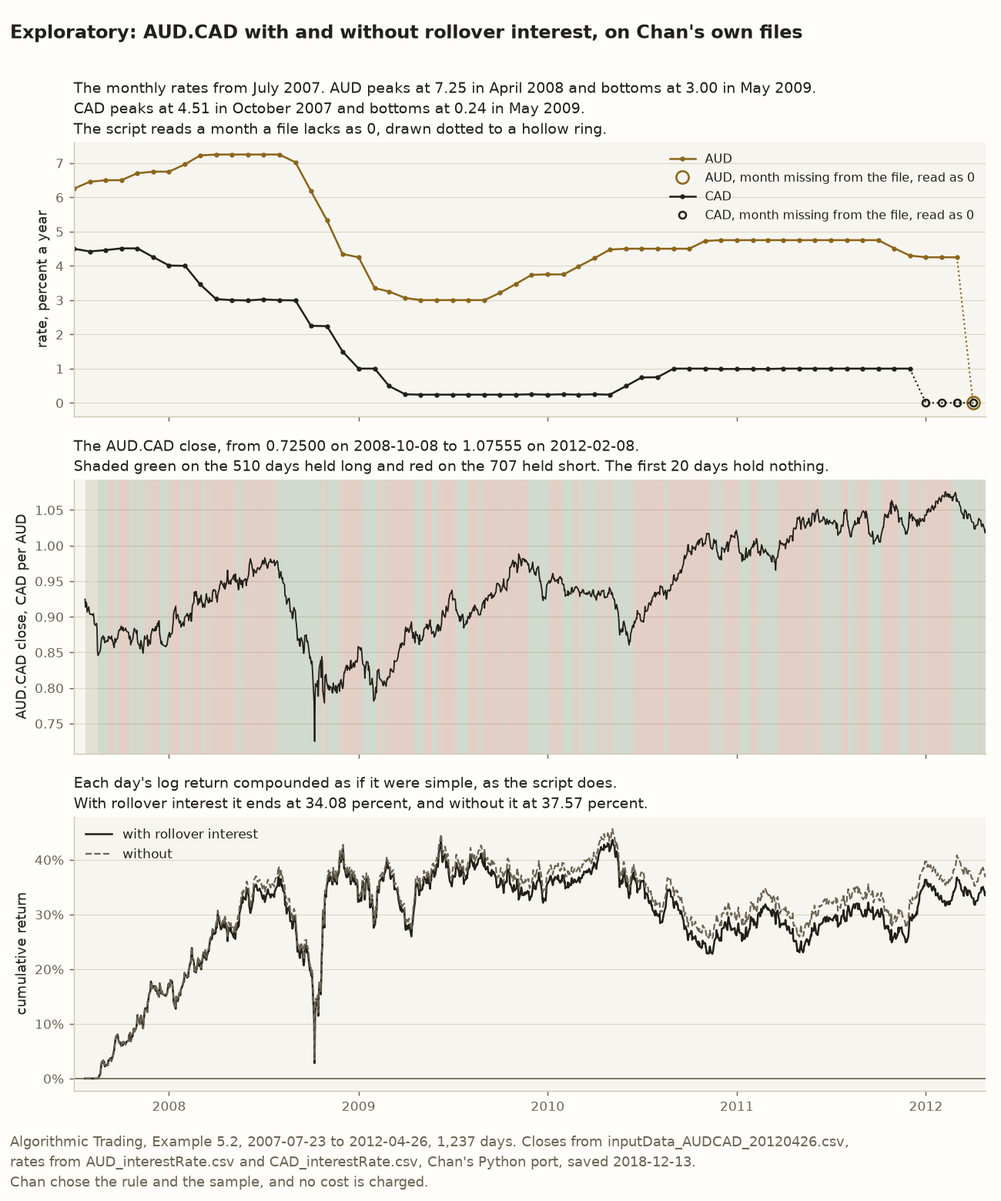
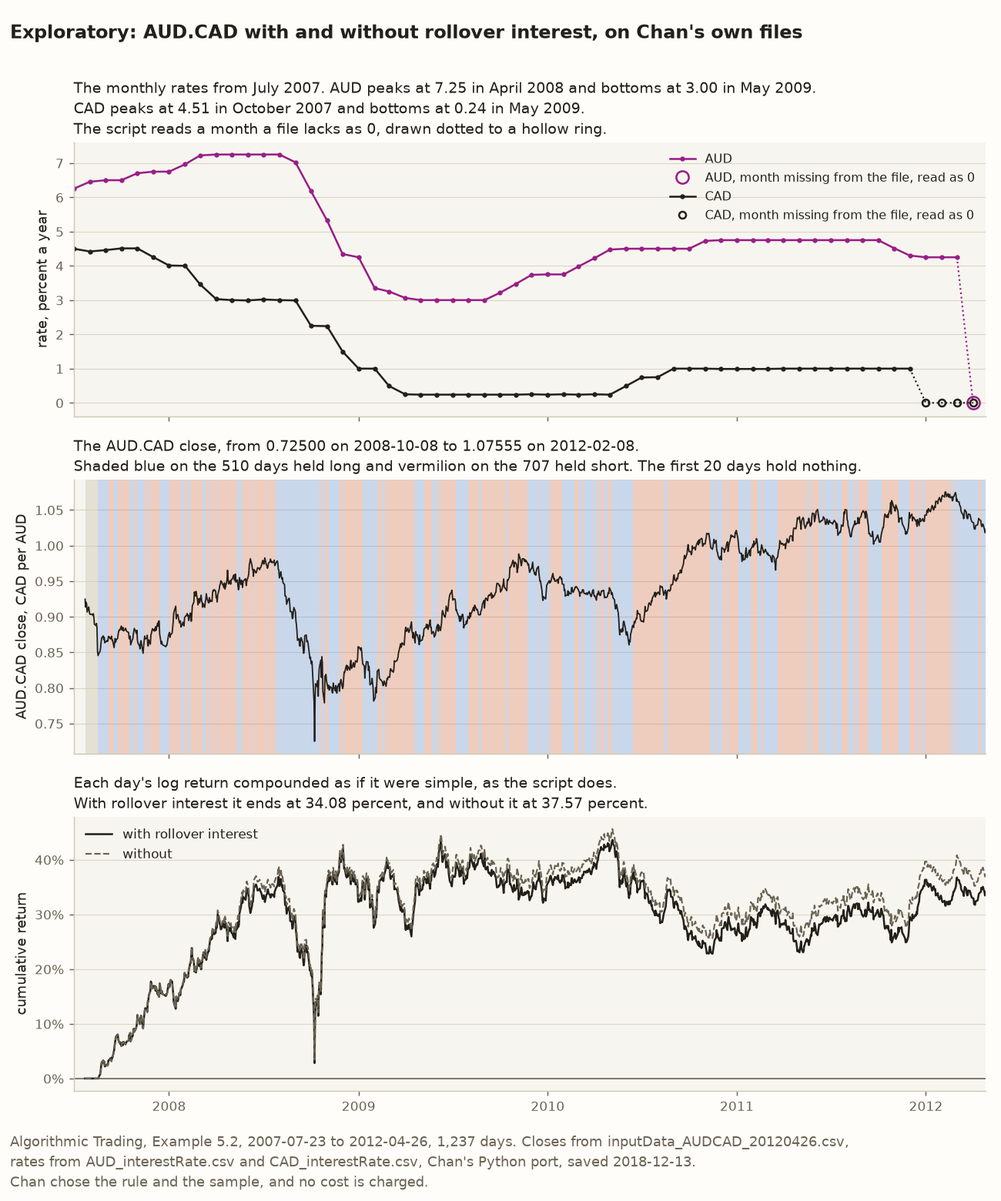
feat(palette): move the AUD.CAD rollover post's figures to the colour-blind-safe palette (#750)
* feat(palette): move the AUD.CAD rollover post's figures to the colour-blind-safe palette

The post's chart and its two whiteboard sketches drew in the shared brass,
green and red, which sit 3.0 apart under deuteranopia. They now take ACCENT,
GOOD and LOST from chan.palette, and the sketch module passes
chan.palette.INKS to render so its frames quantize to the new colours.

The chart, both GIFs and every colour word that named the old colours in the
post's alt text, the chart's heading, the docstrings and the tests move with
them. A new test reads each written GIF's palette, because the scenes naming
the new inks says nothing about which palette render quantizes onto.

Part of #620

* docs(palette): name vermilion in the leftover test and reflow the cancel sketch's docstring

Review findings on PR #750: one test docstring still said red, and the
sentence added about colour vision split a share from the number it
names.

Part of #620

---------

diff --git a/src/chan/aud_cad_rollover_whiteboard.py b/src/chan/aud_cad_rollover_whiteboard.py
@@ -10,9 +10,9 @@ places each right after the text it draws.
    that land inside the pass mark. Two rows of five weekdays, AUD above CAD,
    each day holding the days of interest it pays: one, except AUD's Wednesday
    and CAD's Thursday, which pay three. A brace under each row says the five
-   trading days pay seven days of interest. Between the two rows, a green
+   trading days pay seven days of interest. Between the two rows, a blue
    branch multiplies the average of AUD less CAD by 252 trading days and ends
-   at 3.26 percent, and a red one multiplies it by 365 and ends at 4.73
+   at 3.26 percent, and a vermilion one multiplies it by 365 and ends at 4.73
    percent, which counts every weekend again. The rows are schematic, a week
    at a constant rate, but each day's count is read from
    :func:`chan.aud_cad_rollover.daily_rates` on that rate, so the tripling the
@@ -20,14 +20,16 @@ places each right after the text it draws.
    365 / 252 are the run's.
 2. Long and short days cancel, after Lesson 3's paragraph opening "Net
    position explains the cost." One bar of the 1,217 days the rule holds a
-   position, to scale, green for the 510 days long and red for the 707 short.
-   A grey bracket pairs the 510 long days with 510 of the short ones, and a
-   thinner grey line laid over those days says they cancel. A red bracket
-   marks the 197 short days left over, 16.2 percent of the days held. That
-   share times the 3.26 percent a year gives −0.528 percent, beside the
-   −0.522 percent that rollover interest added to the returns. The bar groups
-   the days by side rather than by date, since the rule changes sides
-   throughout the sample. That grouping is the one schematic part.
+   position, to scale, blue for the 510 days long and vermilion for the 707
+   short. A grey bracket pairs the 510 long days with 510 of the short ones,
+   and a thinner grey line laid over those days says they cancel. A vermilion
+   bracket marks the 197 short days left over, 16.2 percent of the days held.
+   That share times the 3.26 percent a year gives −0.528 percent, beside the
+   −0.522 percent that rollover interest added to the returns. The leftover's
+   words name it, so it reads apart from the grey pair under any colour
+   vision. The bar groups the days by side rather than by date, since the
+   rule changes sides throughout the sample. That grouping is the one
+   schematic part.
 
 Every figure comes from :class:`RunFigures`, which
 :meth:`RunFigures.from_run` reads from :func:`chan.aud_cad_rollover.aud_cad_rollover`
@@ -35,8 +37,10 @@ on Chan's committed files. ``tests/test_aud_cad_rollover_whiteboard.py`` reads
 the same run, so no figure is typed into a scene.
 
 The drawing machinery is :mod:`chan.usdcad_tests_whiteboard`'s, reused rather
-than copied, so these GIFs share that post's look, frame rate and colours. The
-second sketch prints nine figures, so it is in :data:`PACED`: each label
+than copied, so these GIFs share that post's look and frame rate. Their colours
+are :mod:`chan.palette`'s, which a colour-blind reader can tell apart, so
+:func:`_write` passes :data:`chan.palette.INKS` to :func:`render`. The second
+sketch prints nine figures, so it is in :data:`PACED`: each label
 shows 900 ms rather than 350, and the finished drawing holds 12 seconds rather
 than 4, as :func:`sketch_timeline` sets. Each GIF is named :data:`GIF_PREFIX`
 plus the scene's slug, and a redraw with no change is a no-op diff. Redraw
@@ -65,8 +69,9 @@ from chan.aud_cad_rollover import (
 )
 from chan.khandani_lo import TRADING_DAYS
 from chan.matlab_helpers import lag1
+from chan.palette import ACCENT, GOOD, INKS, LOST
 from chan.paths import FIGURES_DIR
-from chan.regime_figure import ACCENT, GOOD, INK, LOST, MUTED
+from chan.regime_figure import INK, MUTED
 from chan.usdcad_tests_whiteboard import (
     DPI,
     WIDTH,
@@ -173,12 +178,12 @@ BRACE_LABEL_DROP = 0.6
 #: Where the two branches and the note sit, on the right of the rows. Both
 #: arrows sit between the two rows, because each multiplies the average of AUD
 #: less CAD. An arrow level with one row reads as that currency's figure, and
-#: so do words, which have no room between the rows. So the green one's words,
-#: above it, open by naming the average of AUD less CAD, and the red one's,
+#: so do words, which have no room between the rows. So the 252 branch's words,
+#: above it, open by naming the average of AUD less CAD, and the 365 branch's,
 #: below it, call it the same average.
 BRANCH_X = (5.45, 7.3)
-GREEN_Y, RED_Y = 2.8, 2.17
-#: The grey note under the red branch's words, on two lines.
+BY_252_Y, BY_365_Y = 2.8, 2.17
+#: The grey note under the 365 branch's words, on two lines.
 NOTE_Y = 1.0
 
 
@@ -304,11 +309,11 @@ def _five_pay_seven(f: RunFigures) -> Scene:
             *headers,
             *aud_row[2:],
             *_week_row("CAD", CAD_Y, cad),
-            _stroke("by-252", _arrow(x0, GREEN_Y, x1, GREEN_Y), color=GOOD, frames=5),
+            _stroke("by-252", _arrow(x0, BY_252_Y, x1, BY_252_Y), color=GOOD, frames=5),
             Label(
                 "average of AUD less CAD",
                 x0,
-                GREEN_Y + 0.8,
+                BY_252_Y + 0.8,
                 names="by-252",
                 color=GOOD,
                 size=12,
@@ -316,7 +321,7 @@ def _five_pay_seven(f: RunFigures) -> Scene:
             Label(
                 f"× {TRADING_DAYS} trading days",
                 x0,
-                GREEN_Y + 0.45,
+                BY_252_Y + 0.45,
                 names="by-252",
                 color=GOOD,
                 size=12,
@@ -324,25 +329,25 @@ def _five_pay_seven(f: RunFigures) -> Scene:
             Label(
                 f"{100 * f.rollover:.2f} percent",
                 x1 + 0.2,
-                GREEN_Y,
+                BY_252_Y,
                 names="by-252",
                 color=GOOD,
                 size=14,
             ),
-            _stroke("by-365", _arrow(x0, RED_Y, x1, RED_Y), color=LOST, frames=5),
+            _stroke("by-365", _arrow(x0, BY_365_Y, x1, BY_365_Y), color=LOST, frames=5),
             Label(
                 f"the same average × {DAYS_IN_YEAR} counts",
                 x0,
-                RED_Y - 0.43,
+                BY_365_Y - 0.43,
                 names="by-365",
                 color=LOST,
                 size=12,
             ),
-            Label("every weekend again", x0, RED_Y - 0.79, names="by-365", color=LOST, size=12),
+            Label("every weekend again", x0, BY_365_Y - 0.79, names="by-365", color=LOST, size=12),
             Label(
                 f"{100 * f.over_365_days:.2f} percent",
                 x1 + 0.2,
-                RED_Y,
+                BY_365_Y,
                 names="by-365",
                 color=LOST,
                 size=14,
@@ -384,9 +389,9 @@ BAR_Y = 3.3
 BAR_WIDTH = 14.0
 BRACKET_Y = 2.85
 #: How far below the bracket the two lines naming the leftover days sit. Two
-#: short lines ending at the bar's right end keep the words close to the red
-#: span they name. On one line they reached back past the bracket's middle tick,
-#: under the long days, and only their red ink tied them to the leftover.
+#: short lines ending at the bar's right end keep the words close to the
+#: vermilion span they name. On one line they reached back past the bracket's
+#: middle tick, under the long days, and only their ink tied them to the leftover.
 LEFTOVER_DROP = (0.45, 0.79)
 #: The row that multiplies the net share by the rate, and the row that checks it.
 PRODUCT_Y, ADDED_Y = 1.64, 1.15
@@ -594,7 +599,7 @@ def sketch_timeline(scene: Scene) -> list[Frame]:
 
 def _write(scene: Scene, folder: Path) -> Path:
     frames = sketch_timeline(scene)
-    first, *rest = render(scene, frames)
+    first, *rest = render(scene, frames, INKS)
     path = folder / gif_name(scene)
     first.save(
         path,

diff --git a/tests/test_aud_cad_rollover_whiteboard.py b/tests/test_aud_cad_rollover_whiteboard.py
@@ -62,8 +62,9 @@ from chan.aud_cad_rollover_whiteboard import (
     sketch_timeline,
     week_days_paid,
 )
+from chan.palette import ACCENT, GOOD, INKS, LOST
 from chan.paths import FIGURES_DIR, REPO_ROOT
-from chan.regime_figure import ACCENT, GOOD, INK, LOST, MUTED
+from chan.regime_figure import INK, MUTED
 from chan.usdcad_tests_whiteboard import (
     HEIGHT,
     HOLD_MS,
@@ -127,8 +128,8 @@ LABELS = [
         "what is left is the net position",
     ],
 ]
-#: The ink of each label, in the order of :data:`LABELS`: green for what earns
-#: or checks out, red for what pays or overstates, grey for context, brown for
+#: The ink of each label, in the order of :data:`LABELS`: blue for what earns
+#: or checks out, vermilion for what pays or overstates, grey for context, berry for
 #: the tripled days and the closing words, black for the rest.
 LABEL_INKS = [
     [INK] * 6
@@ -318,7 +319,7 @@ class TestTheScenes:
                 assert stroke.points >= stroke.frames, (scene.title, stroke.gid)
 
     def test_neither_draws_a_tint(self, drawn) -> None:
-        """A tint would need a green edge, and neither sketch shades a region."""
+        """A tint would need a blue edge, and neither sketch shades a region."""
         assert not [fill for scene in drawn for fill in scene.fills]
 
 
@@ -338,7 +339,7 @@ class TestFiveDaysPayForSeven:
         assert aud == [str(d) for d in week_days_paid(rollover.AUD_TRIPLE_WEEKDAY)]
         assert cad == [str(d) for d in week_days_paid(rollover.CAD_TRIPLE_WEEKDAY)]
 
-    def test_the_tripled_box_sits_under_its_weekday_in_brown(self, drawn) -> None:
+    def test_the_tripled_box_sits_under_its_weekday_in_berry(self, drawn) -> None:
         scene = drawn[0]
         width = (CELLS_X[1] - CELLS_X[0]) / len(WEEK)
         for gid, weekday in (
@@ -364,7 +365,7 @@ class TestFiveDaysPayForSeven:
             assert brace.y.max() < row.y.min()
             assert words.y < brace.y.min() and words.names == gid
 
-    def test_252_is_green_and_365_red_with_the_closing_words_brown(self, drawn) -> None:
+    def test_252_is_blue_and_365_vermilion_with_the_closing_words_berry(self, drawn) -> None:
         scene = drawn[0]
         assert _stroke(scene, "by-252").color == GOOD
         assert _stroke(scene, "by-365").color == LOST
@@ -470,7 +471,7 @@ class TestLongAndShortDaysCancel:
             (_x_at(2 * either.long_days, either), BAR_X[1])
         )
 
-    def test_long_is_green_short_red_the_pairs_grey_and_the_check_green(self, drawn) -> None:
+    def test_long_is_blue_short_vermilion_the_pairs_grey_and_the_check_blue(self, drawn) -> None:
         scene = drawn[1]
         inks = {s.gid: s.color for s in scene.strokes}
         assert inks == {
@@ -534,9 +535,10 @@ class TestLongAndShortDaysCancel:
     def test_the_leftover_words_hang_under_the_short_half_from_the_bars_end(
         self, either, monkeypatch, fallback
     ) -> None:
-        """Red is the only ink tying them to the leftover span, and to a reader who
-        cannot tell red from grey their place has to do it. Two lines, each ending at
-        the bar's right end, keep them clear of the long half and of the grey label."""
+        """Vermilion is the only ink tying them to the leftover span, and to a reader
+        who cannot tell vermilion from grey their place has to do it. Two lines, each
+        ending at the bar's right end, keep them clear of the long half and of the
+        grey label."""
         _font(monkeypatch, fallback)
         scene = scenes(either)[1]
         words = [s for s in scene.steps if isinstance(s, Label) and s.names == "leftover"]
@@ -708,25 +710,25 @@ class TestThePost:
             drawn,
             (
                 [
-                    "outlined in brown and holds “3”",
+                    "outlined in berry and holds “3”",
                     "holds five boxes",
                     "A grey brace",
                     "between the two rows",
-                    "a green arrow labelled “average of AUD less CAD”",
-                    "a red arrow labelled “the same average × 365",
+                    "a blue arrow labelled “average of AUD less CAD”",
+                    "a vermilion arrow labelled “the same average × 365",
                     "A grey note",
-                    "a brown line closes",
+                    "a berry line closes",
                 ],
                 [
                     f"the {figures.held_days:,} days the rule holds a position",
-                    f"a green part labelled “{figures.long_days:,} days long",
-                    f"a red part labelled “{figures.short_days:,} days short",
+                    f"a blue part labelled “{figures.long_days:,} days long",
+                    f"a vermilion part labelled “{figures.short_days:,} days short",
                     "A grey bracket under the bar",
                     "a thinner grey line",
-                    "A red bracket",
-                    "a green tick",
+                    "A vermilion bracket",
+                    "a blue tick",
                     "A grey note",
-                    "a brown line closes",
+                    "a berry line closes",
                 ],
             ),
             strict=True,
@@ -737,8 +739,8 @@ class TestThePost:
 
     def test_the_five_days_alt_text_names_the_tripled_days(self, drawn) -> None:
         alt = _alt(drawn[0])
-        assert "“AUD”" in alt and "except Wednesday, which is outlined in brown" in alt
-        assert "“CAD”" in alt and "except that Thursday is the box outlined in brown" in alt
+        assert "“AUD”" in alt and "except Wednesday, which is outlined in berry" in alt
+        assert "“CAD”" in alt and "except that Thursday is the box outlined in berry" in alt
 
 
 class TestTheCommand:
@@ -747,3 +749,24 @@ class TestTheCommand:
         main()
         assert sorted(path.name for path in tmp_path.iterdir()) == sorted(GIFS)
         assert capsys.readouterr().out.splitlines() == [f"wrote {tmp_path / name}" for name in GIFS]
+        # The scenes name chan.palette's inks, but render quantizes every frame
+        # onto the palette it is passed, so a GIF written without INKS would
+        # land on the shared brass, green and red whatever the scenes say.
+        for name in GIFS:
+            assert _gif_palette(tmp_path / name) == _ink_palette(INKS), name
+
+    def test_each_committed_gif_carries_the_colour_blind_safe_palette(self) -> None:
+        for name in GIFS:
+            assert _gif_palette(FIGURES_DIR / name) == _ink_palette(INKS), name
+        assert _ink_palette(INKS) != _ink_palette(whiteboard.INKS)
+
+
+def _ink_palette(inks) -> list[int]:
+    """The leading entries of the renderer's palette for ``inks``: white, then each ink's blends."""
+    flat = whiteboard.palette(inks).getpalette()
+    return flat[: 3 * (1 + len(inks) * len(whiteboard.BLENDS))]
+
+
+def _gif_palette(path) -> list[int]:
+    with Image.open(path) as gif:
+        return gif.getpalette()[: len(_ink_palette(INKS))]

diff --git a/tests/test_aud_cad_rollover_figures.py b/tests/test_aud_cad_rollover_figures.py
@@ -43,8 +43,9 @@ from chan.aud_cad_rollover_figures import (
     spells,
 )
 from chan.matlab_helpers import lag1
+from chan.palette import ACCENT, GOOD, LOST
 from chan.paths import FIGURES_DIR
-from chan.regime_figure import ACCENT, GOOD, INK, LOST, MUTED, RULE
+from chan.regime_figure import INK, MUTED, RULE
 from chan.series import WindowCrossesScaleBreak
 from chan.vintage import VintageUnavailable
 
@@ -282,7 +283,7 @@ class TestTheHeldPositions:
         assert (closes.max(), str(closes.idxmax().date())) == (1.07555, "2012-02-08")
         assert _title(axes["close"]) == (
             "The AUD.CAD close, from 0.72500 on 2008-10-08 to 1.07555 on 2012-02-08.\n"
-            "Shaded green on the 510 days held long and red on the 707 held short. The first "
+            "Shaded blue on the 510 days held long and vermilion on the 707 held short. The first "
             "20 days hold nothing."
         )
 
@@ -314,7 +315,7 @@ class TestTheHeldPositions:
         (unfilled,) = _spans(axes["close"], "unfilled")
         assert unfilled == (date2num(result.days[0]), date2num(result.days[19]))
 
-    def test_long_is_green_short_is_red_and_the_unfilled_days_grey(self, axes) -> None:
+    def test_long_is_blue_short_is_vermilion_and_the_unfilled_days_grey(self, axes) -> None:
         """No legend tells the two apart, so the colour and the heading are the claim."""
         assert same_color(HELD_COLOURS["long"], GOOD)
         assert same_color(HELD_COLOURS["short"], LOST)

diff --git a/src/chan/aud_cad_rollover_figures.py b/src/chan/aud_cad_rollover_figures.py
@@ -46,8 +46,9 @@ from chan.aud_cad_rollover import (
 )
 from chan.coin_flip_figures import _plain_text, _save, _style, _title
 from chan.matlab_helpers import lag1
+from chan.palette import ACCENT, GOOD, LOST
 from chan.paths import FIGURES_DIR
-from chan.regime_figure import ACCENT, GOOD, INK, LOST, MUTED, RULE, SURFACE
+from chan.regime_figure import INK, MUTED, RULE, SURFACE
 from chan.series import WindowCrossesScaleBreak
 from chan.vintage import VintageUnavailable
 
@@ -209,8 +210,8 @@ def make_rollover_figure(out: Path | None = None, sources: Sources | None = None
     _heading(
         close_ax,
         f"The AUD.CAD close, from {closes.min():.5f} on {closes.idxmin().date()} to "
-        f"{closes.max():.5f} on {closes.idxmax().date()}.\nShaded green on the {long_days} "
-        f"days held long and red on the {short_days} held short. The first "
+        f"{closes.max():.5f} on {closes.idxmax().date()}.\nShaded blue on the {long_days} "
+        f"days held long and vermilion on the {short_days} held short. The first "
         f"{SCRIPT_LOOKBACK} days hold nothing.",
     )
 

diff --git a/tests/test_aud_cad_rollover.py b/tests/test_aud_cad_rollover.py
@@ -682,7 +682,7 @@ class TestThePostQuotesThePins:
         rollover = _percent(result.rollover, 2)
         for phrase in (
             f"reaches {aud.max():.2f} in {aud_peak:%B %Y}",
-            f"green on the {long} days held long, red on the {short} held short",
+            f"blue on the {long} days held long, vermilion on the {short} held short",
             f"over {days} days.*",
             f"Averaged over all {days} days",
             f"is {rollover} percent a year on these files, not almost 5",

diff --git a/blog/aud-cad-rollover-lessons.md b/blog/aud-cad-rollover-lessons.md
@@ -55,7 +55,7 @@ The same two currencies, quoted the other way round as CAD/AUD, appear in [the p
 
 The chart shows what goes into the four figures.
 
-![Three charts stacked on one shared date axis from July 2007 to April 2012. The top chart plots the monthly interest rates in percent a year, with a dot per month. AUD starts at 6.25, reaches 7.25 in April 2008 and holds it to August, falls to 3.00 by May 2009, and climbs back to about 4.75 through 2011 before easing to about 4.25. CAD starts near 4.5, peaks at 4.51 in October 2007, falls to 0.24 by May 2009, and sits near 1.00 from September 2010. AUD stays above CAD in every month both files hold. Dotted lines drop each currency to hollow rings at zero for the months its file lacks, January to April 2012 for CAD and April 2012 for AUD. The middle chart plots the AUD.CAD close, from a low of 0.72500 on 2008-10-08 to a high of 1.07555 on 2012-02-08, on a background shaded green on the 510 days held long, red on the 707 held short, and grey on the first 20 days, which hold nothing. Long and short spells alternate across the whole span. The bottom chart plots the cumulative return compounded as the script compounds it, a solid line with rollover interest and a dashed line without. Both climb by mid-2008, to about 37 percent with rollover interest and 39 percent without, fall to near zero in October 2008, move between about 23 and 46 percent through 2009 and 2010, and end at 34.08 percent with rollover interest and 37.57 percent without, with the dashed line above the solid one on every day after January 2008. The title calls the figure exploratory, and the note names Chan’s three files and says no cost is charged.](../docs/figures/aud_cad_rollover.png)
+![Three charts stacked on one shared date axis from July 2007 to April 2012. The top chart plots the monthly interest rates in percent a year, with a dot per month. AUD starts at 6.25, reaches 7.25 in April 2008 and holds it to August, falls to 3.00 by May 2009, and climbs back to about 4.75 through 2011 before easing to about 4.25. CAD starts near 4.5, peaks at 4.51 in October 2007, falls to 0.24 by May 2009, and sits near 1.00 from September 2010. AUD stays above CAD in every month both files hold. Dotted lines drop each currency to hollow rings at zero for the months its file lacks, January to April 2012 for CAD and April 2012 for AUD. The middle chart plots the AUD.CAD close, from a low of 0.72500 on 2008-10-08 to a high of 1.07555 on 2012-02-08, on a background shaded blue on the 510 days held long, vermilion on the 707 held short, and grey on the first 20 days, which hold nothing. Long and short spells alternate across the whole span. The bottom chart plots the cumulative return compounded as the script compounds it, a solid line with rollover interest and a dashed line without. Both climb by mid-2008, to about 37 percent with rollover interest and 39 percent without, fall to near zero in October 2008, move between about 23 and 46 percent through 2009 and 2010, and end at 34.08 percent with rollover interest and 37.57 percent without, with the dashed line above the solid one on every day after January 2008. The title calls the figure exploratory, and the note names Chan’s three files and says no cost is charged.](../docs/figures/aud_cad_rollover.png)
 
 *The two monthly rates with the months the files lack, the close with the days held each way, and the cumulative return with and without rollover interest, on Chan’s files over 1,237 days.*
 
@@ -107,7 +107,7 @@ Two other readings fall inside the pass mark.
 1. **The AUD rate alone, 4.66 percent.** That is what the Australian dollars earn before the borrowed Canadian dollars cost anything. It is not the difference the book defines.
 2. **The difference over 365 days, 4.73 percent.** The script divides each annual rate by 365 to reach a daily one, so multiplying the daily average back by 365 looks like the natural inverse. It overstates the year, because the tripled day has already paid for the weekends. Each week’s five trading days pay for seven calendar days, so multiplying their average by 365 counts the weekends twice. This reading is the 252-day difference scaled up by 365 / 252, about 1.45 times.
 
-![An animated whiteboard sketch titled “Five trading days pay for seven”, drawn stroke by stroke. A row labelled “AUD” holds five boxes under the weekday names “Mon”, “Tue”, “Wed”, “Thu” and “Fri”. Each box holds the days of interest that day pays, “1”, except Wednesday, which is outlined in brown and holds “3”. A grey brace under the row reads “5 trading days pay 7 days of interest”. A second row labelled “CAD” does the same, except that Thursday is the box outlined in brown and holding “3”, with the same brace and words under it. To the right and between the two rows, a green arrow labelled “average of AUD less CAD” and, on the line below, “× 252 trading days” ends at “3.26 percent”, and below it a red arrow labelled “the same average × 365 counts” and, on the line below, “every weekend again” ends at “4.73 percent”. A grey note reads “365 / 252 is about 1.45,” and “so 3.26 becomes 4.73”, and a brown line closes the sketch: “the tripled day already paid for the weekend”.](../docs/figures/aud_cad_rollover_five_pay_seven.gif)
+![An animated whiteboard sketch titled “Five trading days pay for seven”, drawn stroke by stroke. A row labelled “AUD” holds five boxes under the weekday names “Mon”, “Tue”, “Wed”, “Thu” and “Fri”. Each box holds the days of interest that day pays, “1”, except Wednesday, which is outlined in berry and holds “3”. A grey brace under the row reads “5 trading days pay 7 days of interest”. A second row labelled “CAD” does the same, except that Thursday is the box outlined in berry and holding “3”, with the same brace and words under it. To the right and between the two rows, a blue arrow labelled “average of AUD less CAD” and, on the line below, “× 252 trading days” ends at “3.26 percent”, and below it a vermilion arrow labelled “the same average × 365 counts” and, on the line below, “every weekend again” ends at “4.73 percent”. A grey note reads “365 / 252 is about 1.45,” and “so 3.26 becomes 4.73”, and a berry line closes the sketch: “the tripled day already paid for the weekend”.](../docs/figures/aud_cad_rollover_five_pay_seven.gif)
 
 **This reproduction picks neither.** Either reading could be what Chan computed, and nothing in the book or the script says which, if either. The script computes no rollover figure at all. Choosing a reading after seeing the miss would fit the explanation to the number, so the result stays a miss and both readings stay beside it as explanations. The rollover interest as the book defines it is 3.26 percent a year on these files, not almost 5.
 
@@ -119,7 +119,7 @@ The book’s sentence reads as a surprise. Dropping a rollover interest of almos
 
 **Net position explains the cost.** The rule holds short on 197 more days than it holds long. Over its 1,217 days that is a net share of −16.2 percent, the long days less the short days as a share of the days held. That share times the 3.26 percent a year from Lesson 2 gives −0.528 percent, near the −0.522 percent that rollover interest actually added. The match is this good because long days and short days see nearly the same rollover interest: 3.290 percent a year averaged over the days held long, and 3.287 percent over the days held short. If the rule had happened to hold long whenever the rollover interest was high, the net share would explain much less. Both averages sit slightly above the 3.26 percent averaged over all 1,237 days, because that average also counts the first 20 days, which hold no position and saw a narrower gap between the two rates.
 
-![An animated whiteboard sketch titled “Long and short days cancel”, drawn slowly stroke by stroke. One bar stands for the 1,217 days the rule holds a position, to scale, with the days grouped by side rather than by date: a green part labelled “510 days long: earn rollover interest” and a red part labelled “707 days short: pay it”. A grey bracket under the bar pairs the 510 long days with as many short ones, a thinner grey line strikes through those days, and the bracket reads “cancel”. A red bracket under the rest of the bar reads “197 more days short:” and, on the line below, “a net share of −16.2 percent”. Below, an arrow labelled “× 3.26 percent a year” points to “−0.528 percent”, and under it a green tick marks “rollover added: −0.522 percent”. A grey note reads “they cancel because long days see 3.290 and short days 3.287 percent a year”, and a brown line closes the sketch: “what is left is the net position”. The finished drawing holds for twelve seconds.](../docs/figures/aud_cad_rollover_long_short_cancel.gif)
+![An animated whiteboard sketch titled “Long and short days cancel”, drawn slowly stroke by stroke. One bar stands for the 1,217 days the rule holds a position, to scale, with the days grouped by side rather than by date: a blue part labelled “510 days long: earn rollover interest” and a vermilion part labelled “707 days short: pay it”. A grey bracket under the bar pairs the 510 long days with as many short ones, a thinner grey line strikes through those days, and the bracket reads “cancel”. A vermilion bracket under the rest of the bar reads “197 more days short:” and, on the line below, “a net share of −16.2 percent”. Below, an arrow labelled “× 3.26 percent a year” points to “−0.528 percent”, and under it a blue tick marks “rollover added: −0.522 percent”. A grey note reads “they cancel because long days see 3.290 and short days 3.287 percent a year”, and a berry line closes the sketch: “what is left is the net position”. The finished drawing holds for twelve seconds.](../docs/figures/aud_cad_rollover_long_short_cancel.gif)
 
 **The two APRs differ by more than what rollover interest cost.** Without rollover interest the APR is 6.71 percent, and with it 6.16 percent. The difference between them is 0.558 points, larger than the 0.522 percent a year that rollover interest cost. The APR compounds the daily returns, while the 0.522 percent is 252 times the average of what rollover interest added to each day’s return. They are different summaries of the same days.
 
